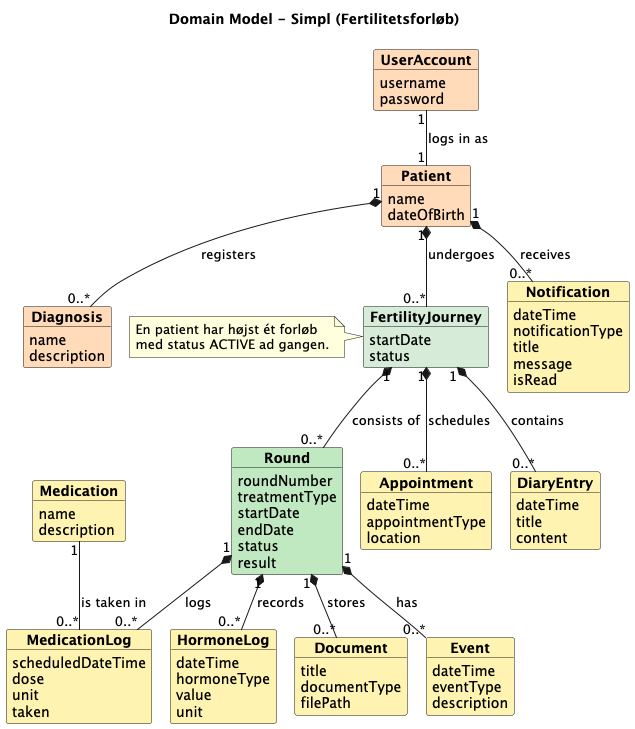
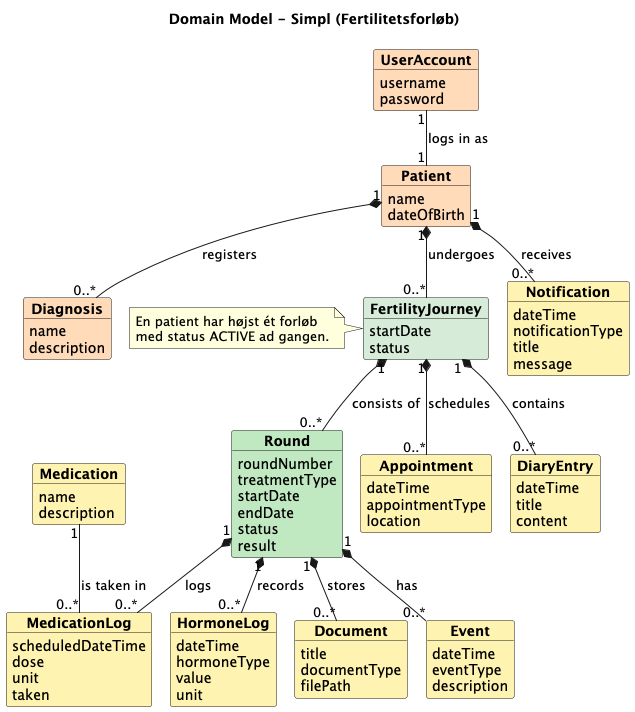
Lærer-feedback: aktivt-forløb-regel som AC på US1, isRead ud af domænemodellen og ind i US12 AC

diff --git a/doc/dynamic/UserStories.md b/doc/dynamic/UserStories.md
@@ -8,6 +8,7 @@ Som patient vil jeg kunne oprette et nyt fertilitetsforløb, så jeg kan begynde
 **Acceptkriterier:**
 - Acceptkriterie 1: "Givet en patient er logget ind, når patienten opretter et nyt fertilitetsforløb, så vises det nye forløb på patientens oversigt" → tester at selve oprettelsen virker og bliver synlig (en patient kan godt have flere forløb over tid)
 - Acceptkriterie 2: "Givet at forløbet oprettes, når det gennemføres, så sættes startdato automatisk" → tester en specifik teknisk detalje (at man ikke selv skal indtaste dato)
+- Acceptkriterie 3: "Givet patienten allerede har et forløb med status ACTIVE, når hun forsøger at oprette et nyt, så vises en fejlbesked, og der oprettes ikke noget forløb" → tester at en patient højst kan have ét aktivt forløb ad gangen
 
 ### User story 2
 Som patient vil jeg kunne se en tidslinje over hændelser i en runde, så jeg ved, hvor langt jeg er nået, uden at skulle spørge min klinik.
@@ -108,4 +109,4 @@ Som patient vil jeg kunne modtage notifikationer, så jeg ikke overser vigtige p
 
 **Acceptkriterier:**
 - Acceptkriterie 1: "Givet en patient har en planlagt medicindosis i dag, når appen åbnes, så oprettes en notifikation af typen MEDICATION_REMINDER for dosen" → tester at systemet selv genererer relevante påmindelser
-- Acceptkriterie 2: "Givet ulæste notifikationer, når patienten åbner listen, så vises de med titel, besked og hvorvidt de er læst (isRead)" → tester visning og læst-status
+- Acceptkriterie 2: "Givet ulæste notifikationer, når patienten åbner listen, så vises de med titel og besked, og det fremgår tydeligt, hvilke der er læst, og hvilke der ikke er"
